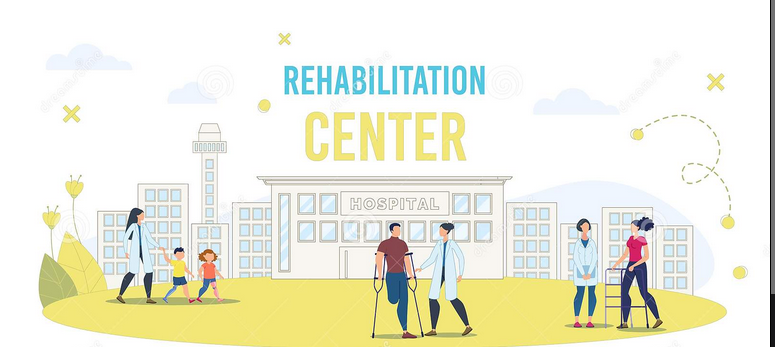
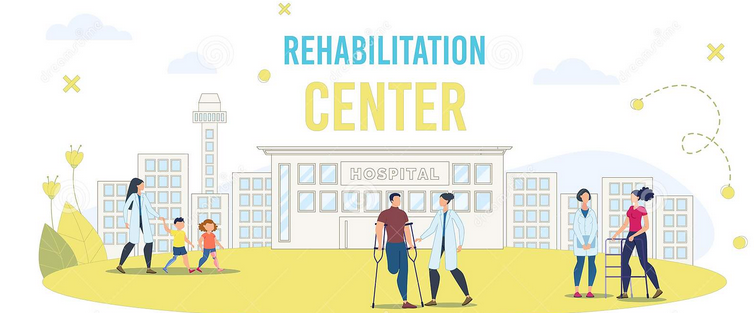
CU

diff --git a/ContactUs.html b/ContactUs.html
@@ -1,16 +1,28 @@
 <!DOCTYPE html>
-<html>
+<html lang="en">
 <head>
-
+    <meta charset="UTF-8">
+    <meta name="viewport" content="width=device-width, initial-scale=1">
+    <link rel="stylesheet" href="style/ContactUs.css">
+    <title> Contact Us </title>
+    <link href="https://cdn.jsdelivr.net/npm/bootstrap@5.2.3/dist/css/bootstrap.min.css" rel="stylesheet">
+    <script src="https://cdn.jsdelivr.net/npm/bootstrap@5.2.3/dist/js/bootstrap.bundle.min.js"></script>
 </head>
 <body>
-    <div id="fotojabackground">
-        <h1> Do you want to receive the services that our clinic offers? </h1>
-    </div>
+    <section>
+        <div class="background" style="background: url(images/rehabilitationcenter.png);">
+            <h1>Do you want to receive the services that our clinic offers?</h1>
+        </div>
+    </section>
+<div class="poshtfigtext">
+    <div class="hapesiretekst">
         <h3> If the answer is <i> Yes </i> then you should scroll down to get the registration </h3>
-        <h3> If the answer is <i> No </i> you can see other infos in this page because this is for registration! The button down that says <u>Home</u> can help to send you to the HomePage to select something else to learn for our clinic.</h3>
-        <a  href="HomePage.html"><button> Home </button></a>
-
+        <h3> If <i> No </i> you can see other infos in this page because this is for registration! The button down that says 
+            <u>Home</u> can help to send you to the HomePage to select something else to learn for our clinic.
+        </h3><br>
+        <a class="hapesirebuton" href="HomePage.html"><button>  Home  </button></a>
+    </div>
+    
     <h2> Registration should be done here! </h2>
     <h2> Please enter your requested information below correctly! </h2>
     <h4> Continue below to fill in the information about you: </h4>
@@ -24,7 +36,7 @@
     <input type="text" id="nrtel" name="nrtel"><br>
     <label for="address"> Address: </label>
     <input type="text" id="address" name="address"><br> 
-
+    
     <label for="member" > Are you a member of any other organizations? </label>
     <form>
         <input type="radio" id="yes" name="member" value="Yes">
@@ -32,7 +44,7 @@
         <input type="radio" id="no" name="member" value="No">
         <label for="no"> No </label><br>
     </form>
-
+    
     <label for="member" > Birth Date: </label>
     <form>
         <label for="month"> Month </label>
@@ -49,7 +61,7 @@
             <option value="tetor"> October </option>
             <option value="nentor"> November </option>
             <option value="dhjetor"> December </option>
-          </select>
+        </select>
         <label for="day"> Day </label>
         <select id="day" name="day">
             <option value="1"> 1 </option>
@@ -94,10 +106,19 @@
             <option value="mbi '00"> 2000 - 2009 </option>
             <option value="mbi '10"> 2010 - 2019 </option>
             <option value="mbi 2020"> 2020+ </option>
-          </select>
-    </form><br>    
- <a href="CUpage2.html" target="_blank"><button> Next </button></a>    
- 
+        </select>
+    </form><br>  
+ <a class="hapesirebuton" href="CUpage2.html" target="_blank"><button>  Next  </button></a>    
+ <div class="row">
+     <div class="col">123</div>
+     <div class="col">123</div>
+     <div class="col">123</div>
+    <div class="col">123</div>
+    
+</div>
+</div> 
+<script src="https://ajax.googleapis.com/ajax/libs/jquery/3.6.1/jquery.min.js"></script> 
+    <script src="myScript.js"></script>  
 </body>
 
 </html>

diff --git a/CUpage2.html b/CUpage2.html
@@ -1,9 +1,15 @@
-<html>
+<!DOCTYPE html>
+<html lang="en">
     <head>
-<title> After Registration procedures</title>
+        <meta charset="UTF-8">
+        <link rel="stylesheet" href="style/ContactUs.css">
+        <title> After Registration procedures</title>
+        <link href="https://cdn.jsdelivr.net/npm/bootstrap@5.2.3/dist/css/bootstrap.min.css" rel="stylesheet">
+        <script src="https://cdn.jsdelivr.net/npm/bootstrap@5.2.3/dist/js/bootstrap.bundle.min.js"></script>
     </head>
     <body>
-        <h2 class="fotoja2"> Here you should select the needs of you, to help us know to take a better care for you :) </h2>
+        <h2 style="background-image:url('images/pwd.png')"> 
+            Here you should select the needs of you, to help us know to take a better care for you :) </h2>
         <label for="transport"> Do you need transportation? </label>
         <form>
             <input type="radio" id="yes" name="transport" value="Yes">
@@ -41,6 +47,17 @@
               </select><br>
               </form><br>
 
-<h3 class="center"> This is what we offer </h3>
+<h2 class="offer" id="center"> This is what our clinic offer </h2><br><br>
+<div class="row">
+    <div class="col"> <h3> Great hospitality </h3> <img src="images/pwd.png" alt=" Great hospitality for people with disabilities "><br><br><br>
+    </div>
+    <div class="col"> <h3>Transport for people with disabilities </h3> <img src="images/transport for pwd.png" alt=" Trasport for people with disabilities "><br><br><br>
+    </div>
+    <div class="col"> <h3>Learning and education </h3> <img src="images/education.jpg" alt=" Education for people with disabilities "><br><br><br>
+    </div>
+    <div class="col"> <h3>Health and support </h3> <img src="images/healthandsupport.png" alt="Health and support for people with disabilities"><br><br><br>
+    </div>
+
+</div>
     </body>
 </html>

diff --git a/style/ContactUs.css b/style/ContactUs.css
@@ -1,18 +1,65 @@
-#fotojabackground{
-    background-image: url(images/rehabilitationcenter.png);
+/*--  faqja pare  --*/
+body{
+    min-width: 100%;
 }
 
-h2.fotoja2{
-    background-image: url(images/pwd.png);
+h1.background{
+    text-align: top center;
+    width: 100%;
 }
 
-*{
-    box-sizing: border-box;
-    margin: 0;
-    padding: 0;
-    background-color:beige;
+.poshtfigtext{
+margin-top: 1000px;
+
 }
 
-.center{
+.hapesiretekst{
+margin-bottom: 80px;
+
+}
+
+.background{
+    width: 100%;
+    height: 50%;
+    display: flex; 
+    background-position: center;
+    position: absolute;
+    top: 0;
+    left: o;
+    float: left;
+    overflow-x: hidden;
+    background-color: white;
+    max-width: 100%;
+    margin:0px auto;
+}
+
+a.hapesirebuton{
+    margin: 20px;
+    padding: 15px;
+    border: 10px;
+}
+
+.offer{
+    width: 100px;
     text-align: center;
+    text-transform: uppercase;
+   
+}
+
+.row{
+    text-align: left;
+    width: 100px;
+}
+
+h1.tekstinefig{
+    text-align: center;
+    padding-left: 50%;
+    padding-right: 50%;
+    top: 100%;
+    text-transform: uppercase;
+    margin: 0;
+    white-space: nowrap;
+    color: black;
+    position: absolute;
+    opacity: 0.5;
 }
